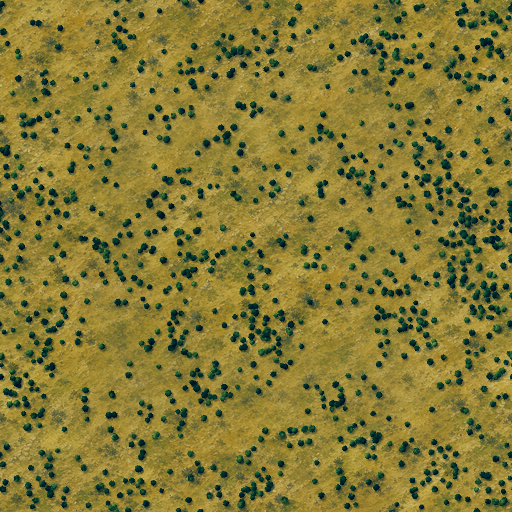
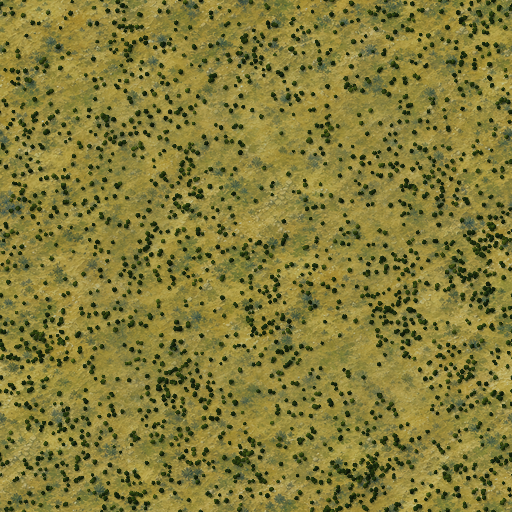
Gouache: finer, denser trees standing out on lighter meadow
Grass and plains re-sprinkled with many more, smaller, darker crowns (a
--tone option for sprinkle_trees.py) on a meadow a touch lighter; the crowns
the map places on open land and in forests are smaller and closer together.

Claude-Session: https://claude.ai/code/session_01VGBb6mKQ3kspS5r6m29MiP

diff --git a/src/Graphics/PaintedMap.cs b/src/Graphics/PaintedMap.cs
@@ -2805,7 +2805,7 @@ namespace OpenCivOne.Graphics
 							float x = left + (Range(random, 2, 62) * k), y = top + (Range(random, 2, 62) * k);
 
 							if (Distance(x, y, fx, fy) >= clear && (rivers == null || rivers.Distance(x, y) > 6 * k))
-								this.PlaceCrown(placements, random, x, y, Range(random, 3.4f, 4.8f) * k, Forest);
+								this.PlaceCrown(placements, random, x, y, Range(random, 2.6f, 3.8f) * k, Forest);
 						}
 
 						if (random.NextDouble() < (grass ? 0.35 : 0.15) && Distance(left + (32 * k), top + (32 * k), fx, fy) >= clear * 1.2f)
@@ -3198,7 +3198,7 @@ namespace OpenCivOne.Graphics
 			float k = this.cell / 64f;
 			bool forest = terrain == Forest;
 			// a dense canopy of many small crowns, as a forest looks from high above
-			int across = forest ? 8 : 7;
+			int across = forest ? 10 : 9;
 			float step = 64f / across;
 
 			for (int v = 0; v < across; v++)
@@ -3209,7 +3209,7 @@ namespace OpenCivOne.Graphics
 					float y = top + (((v + 0.5f) * step) + (Range(random, -0.4f, 0.4f) * step)) * k;
 
 					if (Distance(x, y, fx, fy) >= clear)
-						this.PlaceCrown(placements, random, x, y, Range(random, forest ? 4.2f : 4.8f, forest ? 6.5f : 7.2f) * k, terrain);
+						this.PlaceCrown(placements, random, x, y, Range(random, forest ? 3.4f : 3.8f, forest ? 5.2f : 5.8f) * k, terrain);
 				}
 			}
 
@@ -3299,7 +3299,7 @@ namespace OpenCivOne.Graphics
 					float lit = Math.Clamp((((-ux * 0.55f) - (uy * 0.6f)) + (z * 0.58f)) / 1.0f, 0, 1);
 					float leafy = 0.82f + (0.36f * this.Noise(wx, wy, 2.2f * k, 62));
 					// a lone small tree on open land is lit all through and reads lighter than a deep forest
-					float lone = Smooth(5.2f * k, 4.2f * k, radius);
+					float lone = Smooth(4.2f * k, 3.4f * k, radius);
 					float tone = (0.62f + (0.72f * lit)) * leafy * (1 + p.Shade) * (1 + (0.45f * lone));
 					int ti = this.TextureIndex(leaves, (int)wx, (int)wy);
 					float lr = leaves.R[ti] * tone * (1 + (0.06f * p.Warmth)), lg = leaves.G[ti] * tone, lb = leaves.B[ti] * tone * (1 - (0.05f * p.Warmth));

diff --git a/tools/hdart/sprinkle_trees.py b/tools/hdart/sprinkle_trees.py
@@ -3,7 +3,8 @@
 Each crown is a small dome of the forest's leaves, lit from the top left, with a soft shadow to the lower right. The
 texture repeats, so crowns wrap around its edges and the result stays seamless.
 
-Usage: python3 sprinkle_trees.py GROUND_DIR NAME COUNT [--leaves forest] [--size 3.2,5.0] [--seed 1] [--out PATH]
+Usage: python3 sprinkle_trees.py GROUND_DIR NAME COUNT [--leaves forest] [--size 3.2,5.0] [--seed 1] [--out PATH] [--tone 1]
+  --tone      the crowns' brightness (below 1 for dark trees that stand out on light meadow)
   GROUND_DIR  a theme's hd/painted/ground folder
   NAME        the texture to sprinkle (grass, plains, ...)
   COUNT       how many crowns over the whole texture (it covers 8x8 cells)
@@ -17,7 +18,7 @@ from PIL import Image
 
 def main():
     args = sys.argv[1:]
-    opts = {'--leaves': 'forest', '--size': '3.2,5.0', '--seed': '1', '--out': None}
+    opts = {'--leaves': 'forest', '--size': '3.2,5.0', '--seed': '1', '--out': None, '--tone': '1'}
     for key in list(opts):
         if key in args:
             i = args.index(key)
@@ -65,7 +66,7 @@ def main():
             cover = np.clip((1.0 + jitter - d) / 0.25, 0, 1)
             z = np.sqrt(np.clip(1 - d ** 2, 0, 1))
             lit = np.clip(-ux * 0.55 - uy * 0.6 + z * 0.58, 0, 1)
-            tone = (0.7 + 0.75 * lit) * (1 + shade)
+            tone = (0.7 + 0.75 * lit) * (1 + shade) * float(opts['--tone'])
             leaf = leaves[yy % lh, xx % lw] * 0.6 + leaf_mean * 0.4
             col = leaf * tone[..., None] * np.array([1.05, 1.08, 0.9], np.float32)
             img[yy, xx] += (col - img[yy, xx]) * cover[..., None]
